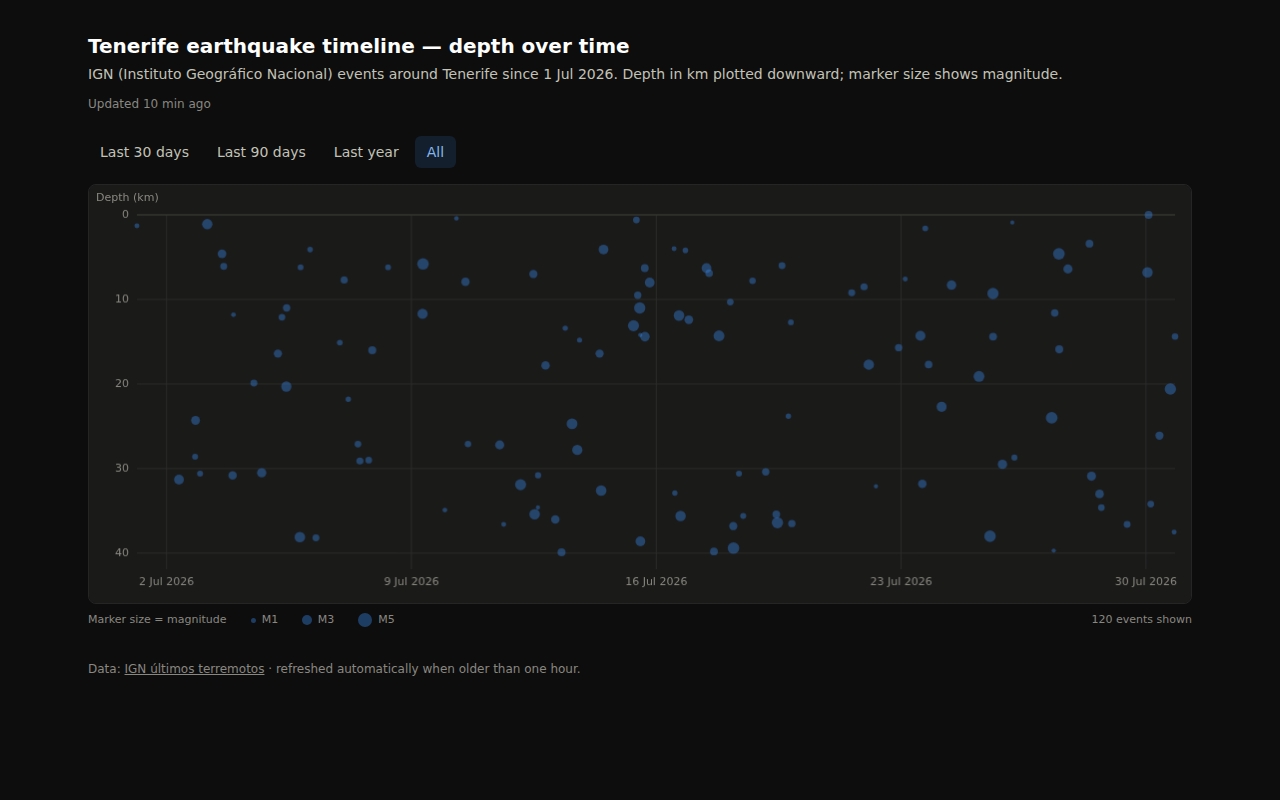
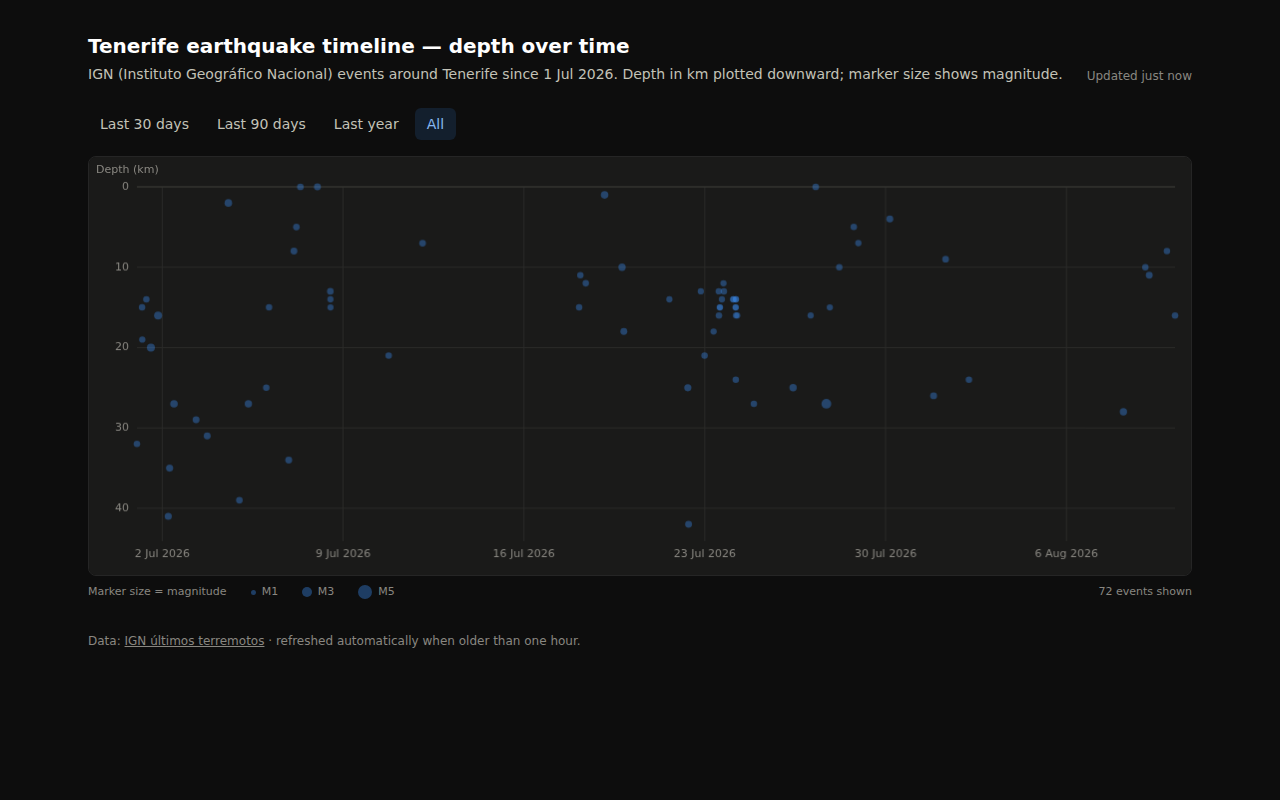
Parse the IGN feed with a regex row-splitter verified against the live API
The live feed's table rows are unclosed <tr> tags inside a Liferay page,
which node-html-parser mishandles (it drops the table node when parsing
the full page, and loses half the rows when parsing the fragment).
Replace it with a dependency-free row/cell splitter with entity
decoding, verified end-to-end against the real feed: the initial load
pulled 554 events over a 42-day window (72 in the Tenerife region), and
the hourly background refresh path fetched and deduplicated correctly.

- Drop the node-html-parser dependency
- Add a live-markup-style test fixture (unclosed rows, header INFO
  decorations, &nbsp; cells)
- Update README screenshots to the real July-August 2026 Tenerife data

Claude-Session: https://claude.ai/code/session_014wqu2bGfEEzZ2QDrxMebZP

diff --git a/app/app/lib/ign.server.ts b/app/app/lib/ign.server.ts
@@ -1,5 +1,3 @@
-import { parse } from "node-html-parser";
-
 // The IGN "últimos terremotos" feed — the same catalog behind the
 // wms-inspire/geofisica WMS layers, served as an HTML table of recent events.
 // `dias` selects how many days back the feed covers (the portal offers up to 30).
@@ -39,17 +37,54 @@ function parseUtc(date: string, time: string): Date | null {
   return Number.isNaN(d.getTime()) ? null : d;
 }
 
-export function parseIgnTable(html: string): IgnEvent[] {
-  const root = parse(html);
-  const table = root.querySelector("table");
-  if (!table) throw new Error("No <table> found in IGN feed response");
+const NAMED_ENTITIES: Record<string, string> = {
+  nbsp: " ",
+  amp: "&",
+  lt: "<",
+  gt: ">",
+  quot: '"',
+  aacute: "á",
+  eacute: "é",
+  iacute: "í",
+  oacute: "ó",
+  uacute: "ú",
+  ntilde: "ñ",
+  Aacute: "Á",
+  Eacute: "É",
+  Iacute: "Í",
+  Oacute: "Ó",
+  Uacute: "Ú",
+  Ntilde: "Ñ",
+};
 
-  const rows = table.querySelectorAll("tr");
+function cellText(cellHtml: string): string {
+  return cellHtml
+    .replace(/<[^>]*>/g, " ")
+    .replace(/&#(\d+);/g, (_, n) => String.fromCodePoint(Number(n)))
+    .replace(/&(\w+);/g, (m, name) => NAMED_ENTITIES[name] ?? m)
+    .replace(/\s+/g, " ")
+    .trim();
+}
+
+// The feed's table rows are unclosed `<tr>` tags inside a messy Liferay page,
+// which trips up lenient DOM parsers (node-html-parser silently drops rows).
+// The markup is machine-generated and flat, so splitting on row/cell tags
+// directly is the reliable way to read it.
+export function parseIgnTable(html: string): IgnEvent[] {
+  const start = html.search(/<table[^>]*>/i);
+  if (start === -1) throw new Error("No <table> found in IGN feed response");
+  const end = html.indexOf("</table>", start);
+  const tableHtml = html.slice(start, end === -1 ? html.length : end);
+
+  const cellRe = /<t[hd][^>]*>([\s\S]*?)<\/t[hd]>/gi;
+  const rows = tableHtml
+    .split(/<tr[^>]*>/i)
+    .slice(1)
+    .map((chunk) => Array.from(chunk.matchAll(cellRe), (m) => cellText(m[1])))
+    .filter((cells) => cells.length > 0);
   if (rows.length < 2) return [];
 
-  const headers = rows[0]
-    .querySelectorAll("th, td")
-    .map((c) => c.text.trim().toLowerCase());
+  const headers = rows[0].map((h) => h.toLowerCase());
 
   const iEvent = findColumn(headers, ["event", "evento"]);
   const iDate = findColumn(headers, ["date", "fecha"]);
@@ -69,8 +104,7 @@ export function parseIgnTable(html: string): IgnEvent[] {
   }
 
   const events: IgnEvent[] = [];
-  for (const row of rows.slice(1)) {
-    const cells = row.querySelectorAll("td").map((c) => c.text.trim());
+  for (const cells of rows.slice(1)) {
     if (cells.length < headers.length - 1) continue;
     const id = cells[iEvent];
     const lat = toFloat(cells[iLat]);

diff --git a/app/tests/ign-parse.test.ts b/app/tests/ign-parse.test.ts
@@ -73,3 +73,33 @@ test("parses the Spanish header variant with comma decimals", () => {
 test("throws when no table is present", () => {
   assert.throws(() => parseIgnTable("<html><body>maintenance</body></html>"));
 });
+
+// Mirrors the real feed markup: full Liferay page, unclosed <tr> tags,
+// INFO links inside header cells, &nbsp; for empty cells.
+const LIVE_STYLE_FEED = `
+<!DOCTYPE html> <html class="aui ltr"><head><title>Latest earthquakes</title></head>
+<body><div><p>seismic analysis. </p></div> <div class="w90 mcenter tar fr"> </div>
+<table> <tr> <th>Event</th> <th>Date</th> <th>UTC time</th>
+<th>Local time<br/><span style="font-size:9px;">(*)</span></th>
+<th>Latitude</th> <th>Longitude</th> <th>Depth&nbsp;(km)</th> <th>Magnitude</th>
+<th>Mag. type <a href="#"><img alt="INFO: Magnitude type"/></a></th>
+<th>Max. int <a href="#"><img alt="INFO: Intensity scale"/></a></th>
+<th>Region <a href="#"><img alt="INFO: Region"/></a></th> <th>More Info</th>
+<tr> <td>es2026pogdh</td> <td>10/08/2026</td> <td>04:53:53</td> <td>05:53:53</td>
+<td>28.2331</td> <td>-16.3681</td> <td>16.0</td> <td>1.6</td> <td>mbLg</td>
+<td>&nbsp;</td> <td>E FASNIA.ITF</td> <td><a href="#">+ info</a></td>
+<tr> <td>es2026pnrgf</td> <td>09/08/2026</td> <td>21:22:42</td> <td>22:22:42</td>
+<td>28.0908</td> <td>-16.2352</td> <td>8.0</td> <td>1.6</td> <td>mbLg</td>
+<td>&nbsp;</td> <td>ATL&Aacute;NTICO-CANARIAS</td> <td><a href="#">+ info</a></td>
+</table></body></html>`;
+
+test("parses live-style markup with unclosed rows and header decorations", () => {
+  const events = parseIgnTable(LIVE_STYLE_FEED);
+  assert.equal(events.length, 2);
+  assert.equal(events[0].id, "es2026pogdh");
+  assert.equal(events[0].time.toISOString(), "2026-08-10T04:53:53.000Z");
+  assert.equal(events[0].depthKm, 16.0);
+  assert.equal(events[0].maxIntensity, null);
+  assert.equal(events[0].region, "E FASNIA.ITF");
+  assert.equal(events[1].region, "ATLÁNTICO-CANARIAS");
+});
